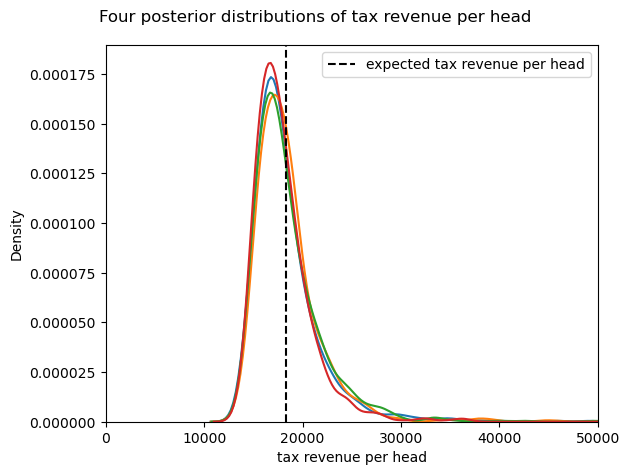
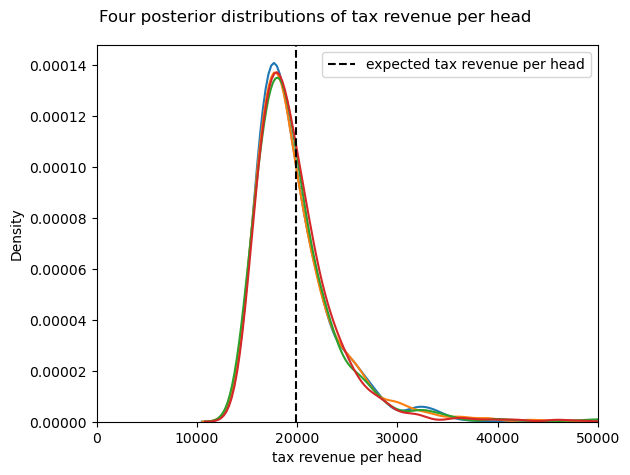
adds png of Pareto distribution

Changed region(s): [[0.2714, 0.0884, 0.9349, 0.9726], [0.0302, 0.0884, 0.181, 0.9432]]

diff --git a/Code/Eerste_MD_file.md b/Code/Eerste_MD_file.md
@@ -150,14 +150,19 @@ nieuwe prior + data = nieuwere prior
 
 - we hebben sample gegenereerd van een Pareto inkomens verdeling
 - met sample hebben we de parameters van deze verdeling geschat
-- deze geschatte parameters $\alpha, m$ hebben een verdeling gegeven de data
-- posterior verdeling: $p(\alpha,m|data)$
-- het algoritme sampled van deze verdeling: er zijn 4000 $\alpha$ and $m$ (4 keer 1000 samples)
+
+![verdeling inkomens in sample](../figures/income_distribution.png)
+
 
 ## Onzekerheid
 
+- deze geschatte parameters $\alpha, m$ hebben een verdeling gegeven de data
+- posterior verdeling: $p(\alpha,m|data)$
+- het algoritme sampled van deze verdeling: er zijn 4000 $\alpha$ and $m$ (4 keer 1000 samples)
 - voor een geven $\alpha, m$, is er een belasting opbrengst (met de niet lineare belasting functie)
 - voor 4000 $\alpha, m$ is er een verdeling van deze belasting opbrengt
+
+## Verdeling van belasting opbrengsten
 
 ![verdeling belasting opbrengst](../figures/average_tax_income_distribution.png)
 
@@ -166,8 +171,8 @@ nieuwe prior + data = nieuwere prior
 - stel de verwachte belasting opbrengst is 17k (per capita)
 - is dit significant verschil met benchmark 18k?
 - is helemaal niet relevant voor beleidsanalyse
-- Bayesiaan: verwachte belasting opbrengst is 18,336k
-- kans dat de threshold niet gehaald wordt is 58%
+- Bayesiaan: verwachte belasting opbrengst is 19875
+- kans dat de threshold niet gehaald wordt is 40%
 
 ## Wat is een goede keuze voor het top marginal tarief
 
@@ -179,5 +184,6 @@ nieuwe prior + data = nieuwere prior
 - arbeidsaanbod elasticteit: totale belasting opbrengsten als functie van marginal tarief inkomsten belasting
 - eigen risico elasticeit: total zorg uitgaven
 - vraagelasticiteit NS: prijzen treinkaartjes, hoeveel autos op de weg
+- efficientie winsten van een fusie: leidt fusie tot welvaartsverhoging
 - onzekerheid over de schattingen die niet triviaal vertaald in onzekerheid over beleidsuitkomsten
 - geintegreerde schattingsmethod en scenario analyse
